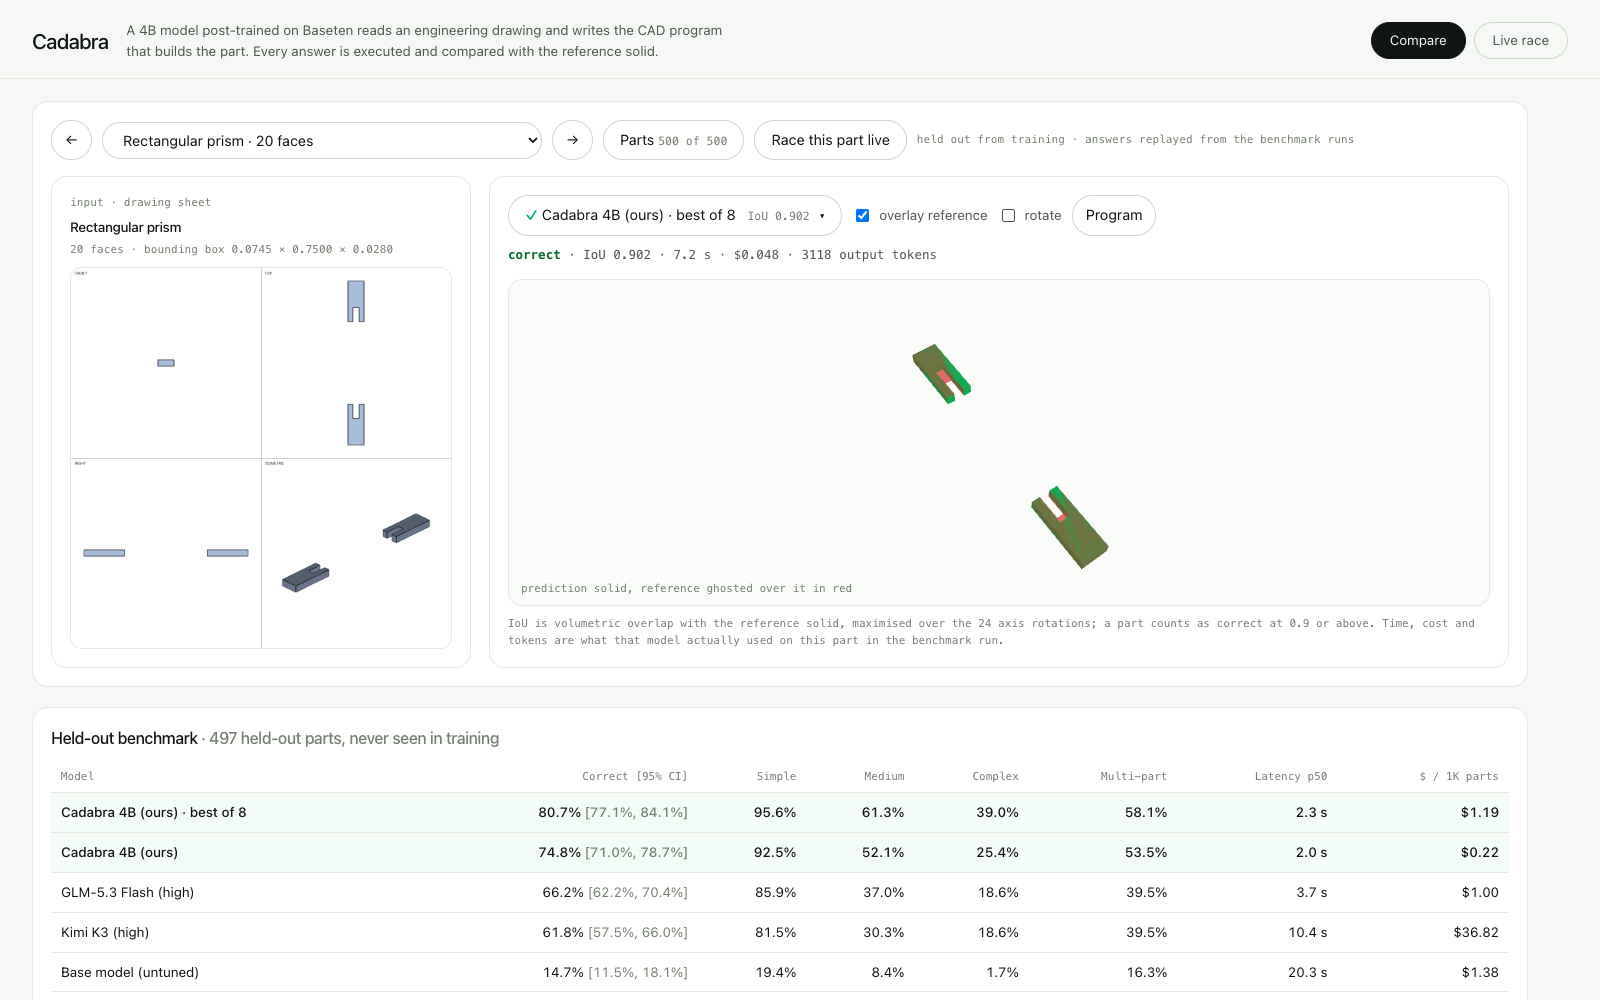
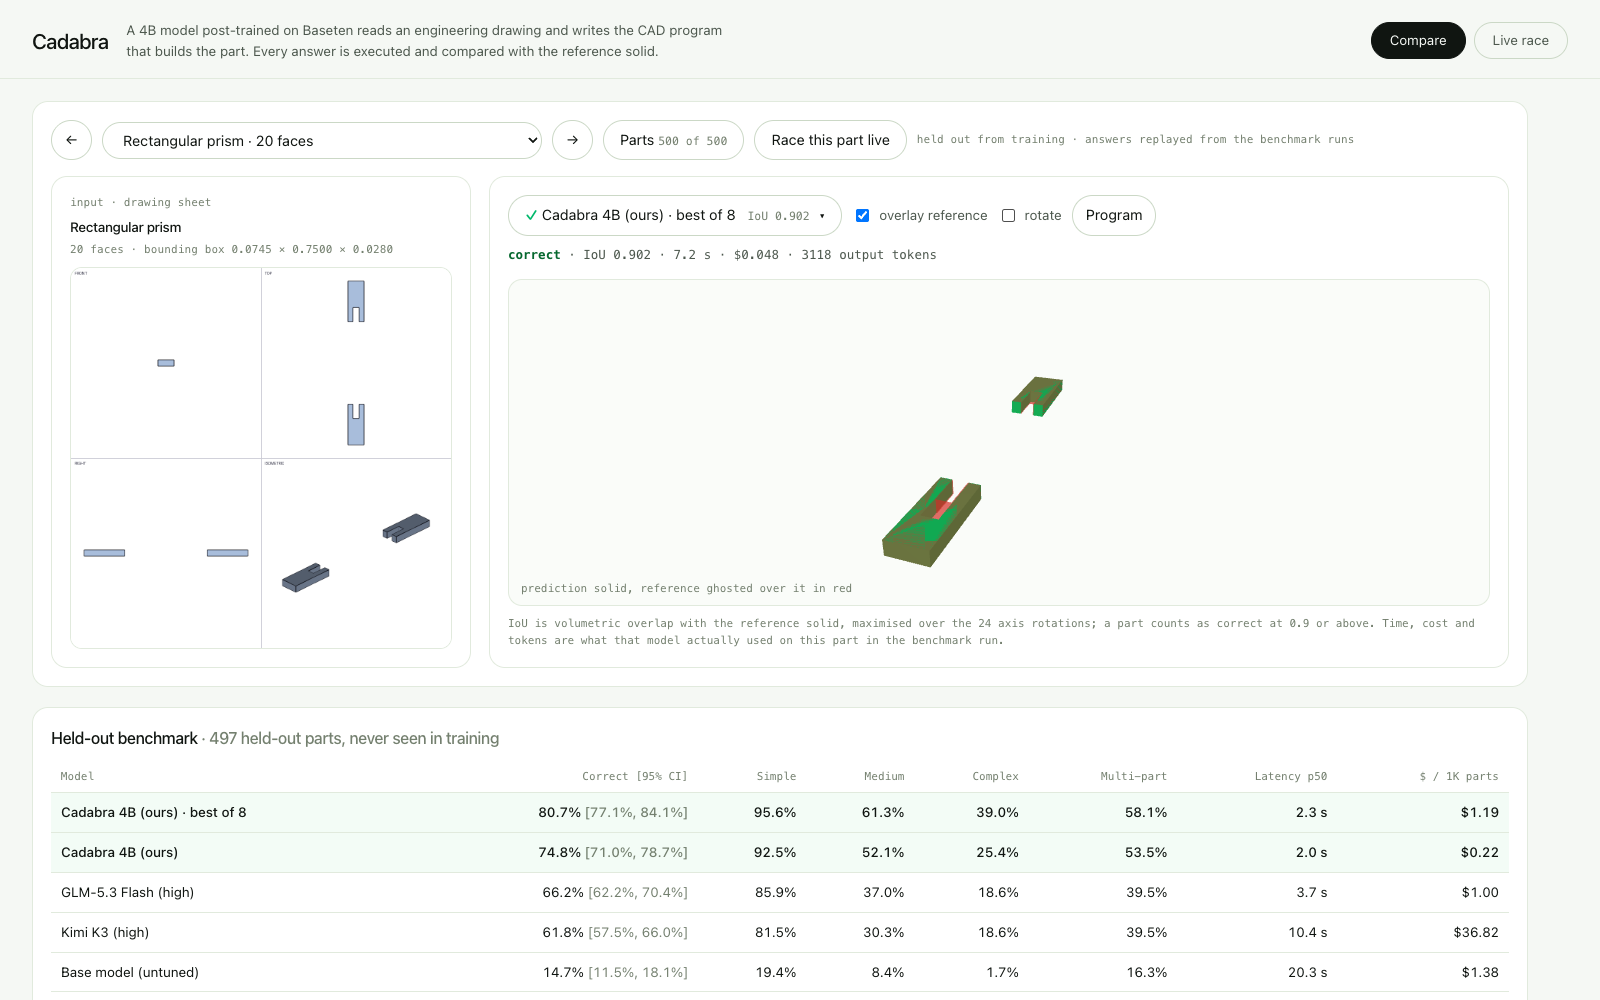
Demo: make dragging the 3D view behave
Two things were wrong. fit() rolled camera.up onto the part's shortest axis to lay a long part across the wide
canvas, but OrbitControls reads camera.up once when it is constructed and fixes its orbit axis from it, so the view
was rolled one way while the drag still orbited world up -- the part moved at an angle to the mouse. The part is now
turned instead of the camera, which gets the same framing with the orbit axis intact. Second, OrbitControls scales a
drag by the canvas HEIGHT in both directions, and the stage got shorter when the tiles were made flush, so a short
sideways drag spun it most of a turn; at half speed half the width is about a quarter turn. Also clamps the wheel to
0.4-2.5x the fitted distance and turns off panning, which only ever loses the part off-frame here.

Browser test now drags the stage and checks the axis, the speed, and that a sideways drag neither tilts nor zooms.

Changed region(s): [[0.5312, 0.465, 0.6875, 0.589], [0.5625, 0.341, 0.6875, 0.434]]

diff --git a/app/static/index.html b/app/static/index.html
@@ -261,6 +261,11 @@ class Viewer {
     this.controls.enableDamping = true;
     this.controls.autoRotate = true;
     this.controls.autoRotateSpeed = 0.9;
+    // OrbitControls turns a drag into rotation as a fraction of the canvas HEIGHT, both ways. This stage is wide and
+    // short, so at the default speed a short sideways drag spins the part most of a turn. Half speed makes dragging
+    // the width about half a turn, and the height about a quarter.
+    this.controls.rotateSpeed = 0.5;
+    this.controls.enablePan = false;  // nothing here needs panning, and an accidental one loses the part off-frame
     this.scene.add(new THREE.HemisphereLight(0xffffff, 0xd8e4d4, 2.0));
     const key = new THREE.DirectionalLight(0xffffff, 1.5);
     key.position.set(2, 3, 4);
@@ -325,15 +330,22 @@ class Viewer {
      out. Rotation-safe like the bounding sphere, but as tight as the part's real shape allows. */
   fit() {
     if (!this.renderer) return;
-    const box = new THREE.Box3().setFromObject(this.group);
+    this.group.quaternion.identity();
+    this.group.updateMatrixWorld(true);
+    let box = new THREE.Box3().setFromObject(this.group);
     if (box.isEmpty()) return;
     const dir = new THREE.Vector3(1, 0.75, 1.15).normalize();
-    const size = box.getSize(new THREE.Vector3()).toArray();
     const up = new THREE.Vector3(0, 1, 0);
+    // These parts are normalised to a 0.75 long axis, so many are thin bars. On a canvas wider than it is tall, stand
+    // the part on its shortest axis: the long one then runs across the width, the way the sheet's isometric view shows
+    // it, instead of down a narrow strip. Turn the part, never the camera -- OrbitControls fixes its orbit axis from
+    // camera.up when it is constructed and never re-reads it, so a camera rolled here would drag against its own axis.
+    const size = box.getSize(new THREE.Vector3()).toArray();
     if (this.camera.aspect > 1.3 && Math.max(...size) > 2 * Math.min(...size)) {
-      const axes = [0, 1, 2].sort((a, b) => size[a] - size[b]);
-      const axis = (i) => new THREE.Vector3(+(axes[i] === 0), +(axes[i] === 1), +(axes[i] === 2));
-      up.copy(Math.abs(axis(0).dot(dir)) < 0.9 ? axis(0) : axis(1));
+      const shortest = [0, 1, 2].sort((a, b) => size[a] - size[b])[0];
+      this.group.quaternion.setFromUnitVectors(new THREE.Vector3(+(shortest === 0), +(shortest === 1), +(shortest === 2)), up);
+      this.group.updateMatrixWorld(true);
+      box = new THREE.Box3().setFromObject(this.group);
     }
     const box3 = [[box.min.x, box.max.x], [box.min.y, box.max.y], [box.min.z, box.max.z]];
     const centre = box.getCenter(new THREE.Vector3());
@@ -352,7 +364,6 @@ class Viewer {
 
     let d = box.getSize(new THREE.Vector3()).length() || 1;
     for (let pass = 0; pass < 6; pass++) {
-      this.camera.up.copy(up);
       this.camera.position.copy(target).addScaledVector(dir, d);
       this.camera.near = d / 200; this.camera.far = d * 200;
       this.camera.updateProjectionMatrix();
@@ -367,6 +378,8 @@ class Viewer {
       d *= reach * this.zoom;
     }
     this.controls.target.copy(target);
+    this.controls.minDistance = d * 0.4;  // keep the wheel from diving inside the solid or losing it in the distance
+    this.controls.maxDistance = d * 2.5;
     this.camera.position.copy(target).addScaledVector(dir, d);
     this.camera.near = d / 200; this.camera.far = d * 200;
     this.camera.updateProjectionMatrix();
@@ -396,8 +409,11 @@ window.__fit = () => {
     const q = new THREE.Vector3(x, y, z).project(stage.camera);
     lo = [Math.min(lo[0], q.x), Math.min(lo[1], q.y)]; hi = [Math.max(hi[0], q.x), Math.max(hi[1], q.y)];
   }
+  const rel = stage.camera.position.clone().sub(stage.controls.target);
   return { ndc: [lo, hi].map((a) => a.map((v) => +v.toFixed(3))), up: stage.camera.up.toArray(),
-           aspect: +stage.camera.aspect.toFixed(3), zoom: stage.zoom };
+           aspect: +stage.camera.aspect.toFixed(3), zoom: stage.zoom,
+           radius: +rel.length().toFixed(4), elevation: +Math.asin(rel.y / rel.length()).toFixed(4),
+           azimuth: +Math.atan2(rel.x, rel.z).toFixed(4) };
 };
 window.__stage = () => stage.group.children.map((o) => {
   const a = o.geometry.attributes.position.array;

diff --git a/scripts/ui_check.py b/scripts/ui_check.py
@@ -130,6 +130,35 @@ def main() -> None:
             worst = max(worst, max(abs(v) for pair in ndc for v in pair))
         check(worst < 1.0, "the part stays inside the frame through a full rotation", f"reaches {worst:.3f} of the frustum")
 
+        # dragging must orbit the axis it looks like it orbits, at a sane speed. OrbitControls fixes its orbit axis
+        # from camera.up when it is built, so rolling the camera later makes a drag fight the view.
+        page.uncheck("#spin")
+        page.wait_for_timeout(1200)
+        stage_box = page.query_selector("#stage").bounding_box()
+        mid = (stage_box["x"] + stage_box["width"] / 2, stage_box["y"] + stage_box["height"] / 2)
+
+        def drag(dx: float, dy: float) -> None:
+            page.mouse.move(*mid)
+            page.mouse.down()
+            for i in range(1, 13):
+                page.mouse.move(mid[0] + dx * i / 12, mid[1] + dy * i / 12)
+                page.wait_for_timeout(16)
+            page.mouse.up()
+            page.wait_for_timeout(1200)
+
+        before = page.evaluate("window.__fit()")
+        check(before["up"] == [0, 1, 0], "the camera keeps the up OrbitControls was built with", str(before["up"]))
+        drag(stage_box["width"] / 2, 0)
+        after = page.evaluate("window.__fit()")
+        turn = abs(after["azimuth"] - before["azimuth"])
+        turn = min(turn, 2 * 3.14159 - turn)
+        check(0.5 < turn < 2.4, "dragging half the stage turns the part about a quarter turn", f"{turn:.2f} rad")
+        check(abs(after["elevation"] - before["elevation"]) < 0.02, "a sideways drag does not tilt it",
+              f"elevation moved {after['elevation'] - before['elevation']:+.3f} rad")
+        check(abs(after["radius"] - before["radius"]) < 1e-3, "a sideways drag does not change the distance",
+              f"radius moved {after['radius'] - before['radius']:+.4f}")
+        page.check("#spin")
+
         for _ in range(8):  # fast part changes: a mesh from a cancelled load must not be left in the scene
             page.click("#next")
             page.wait_for_timeout(110)
